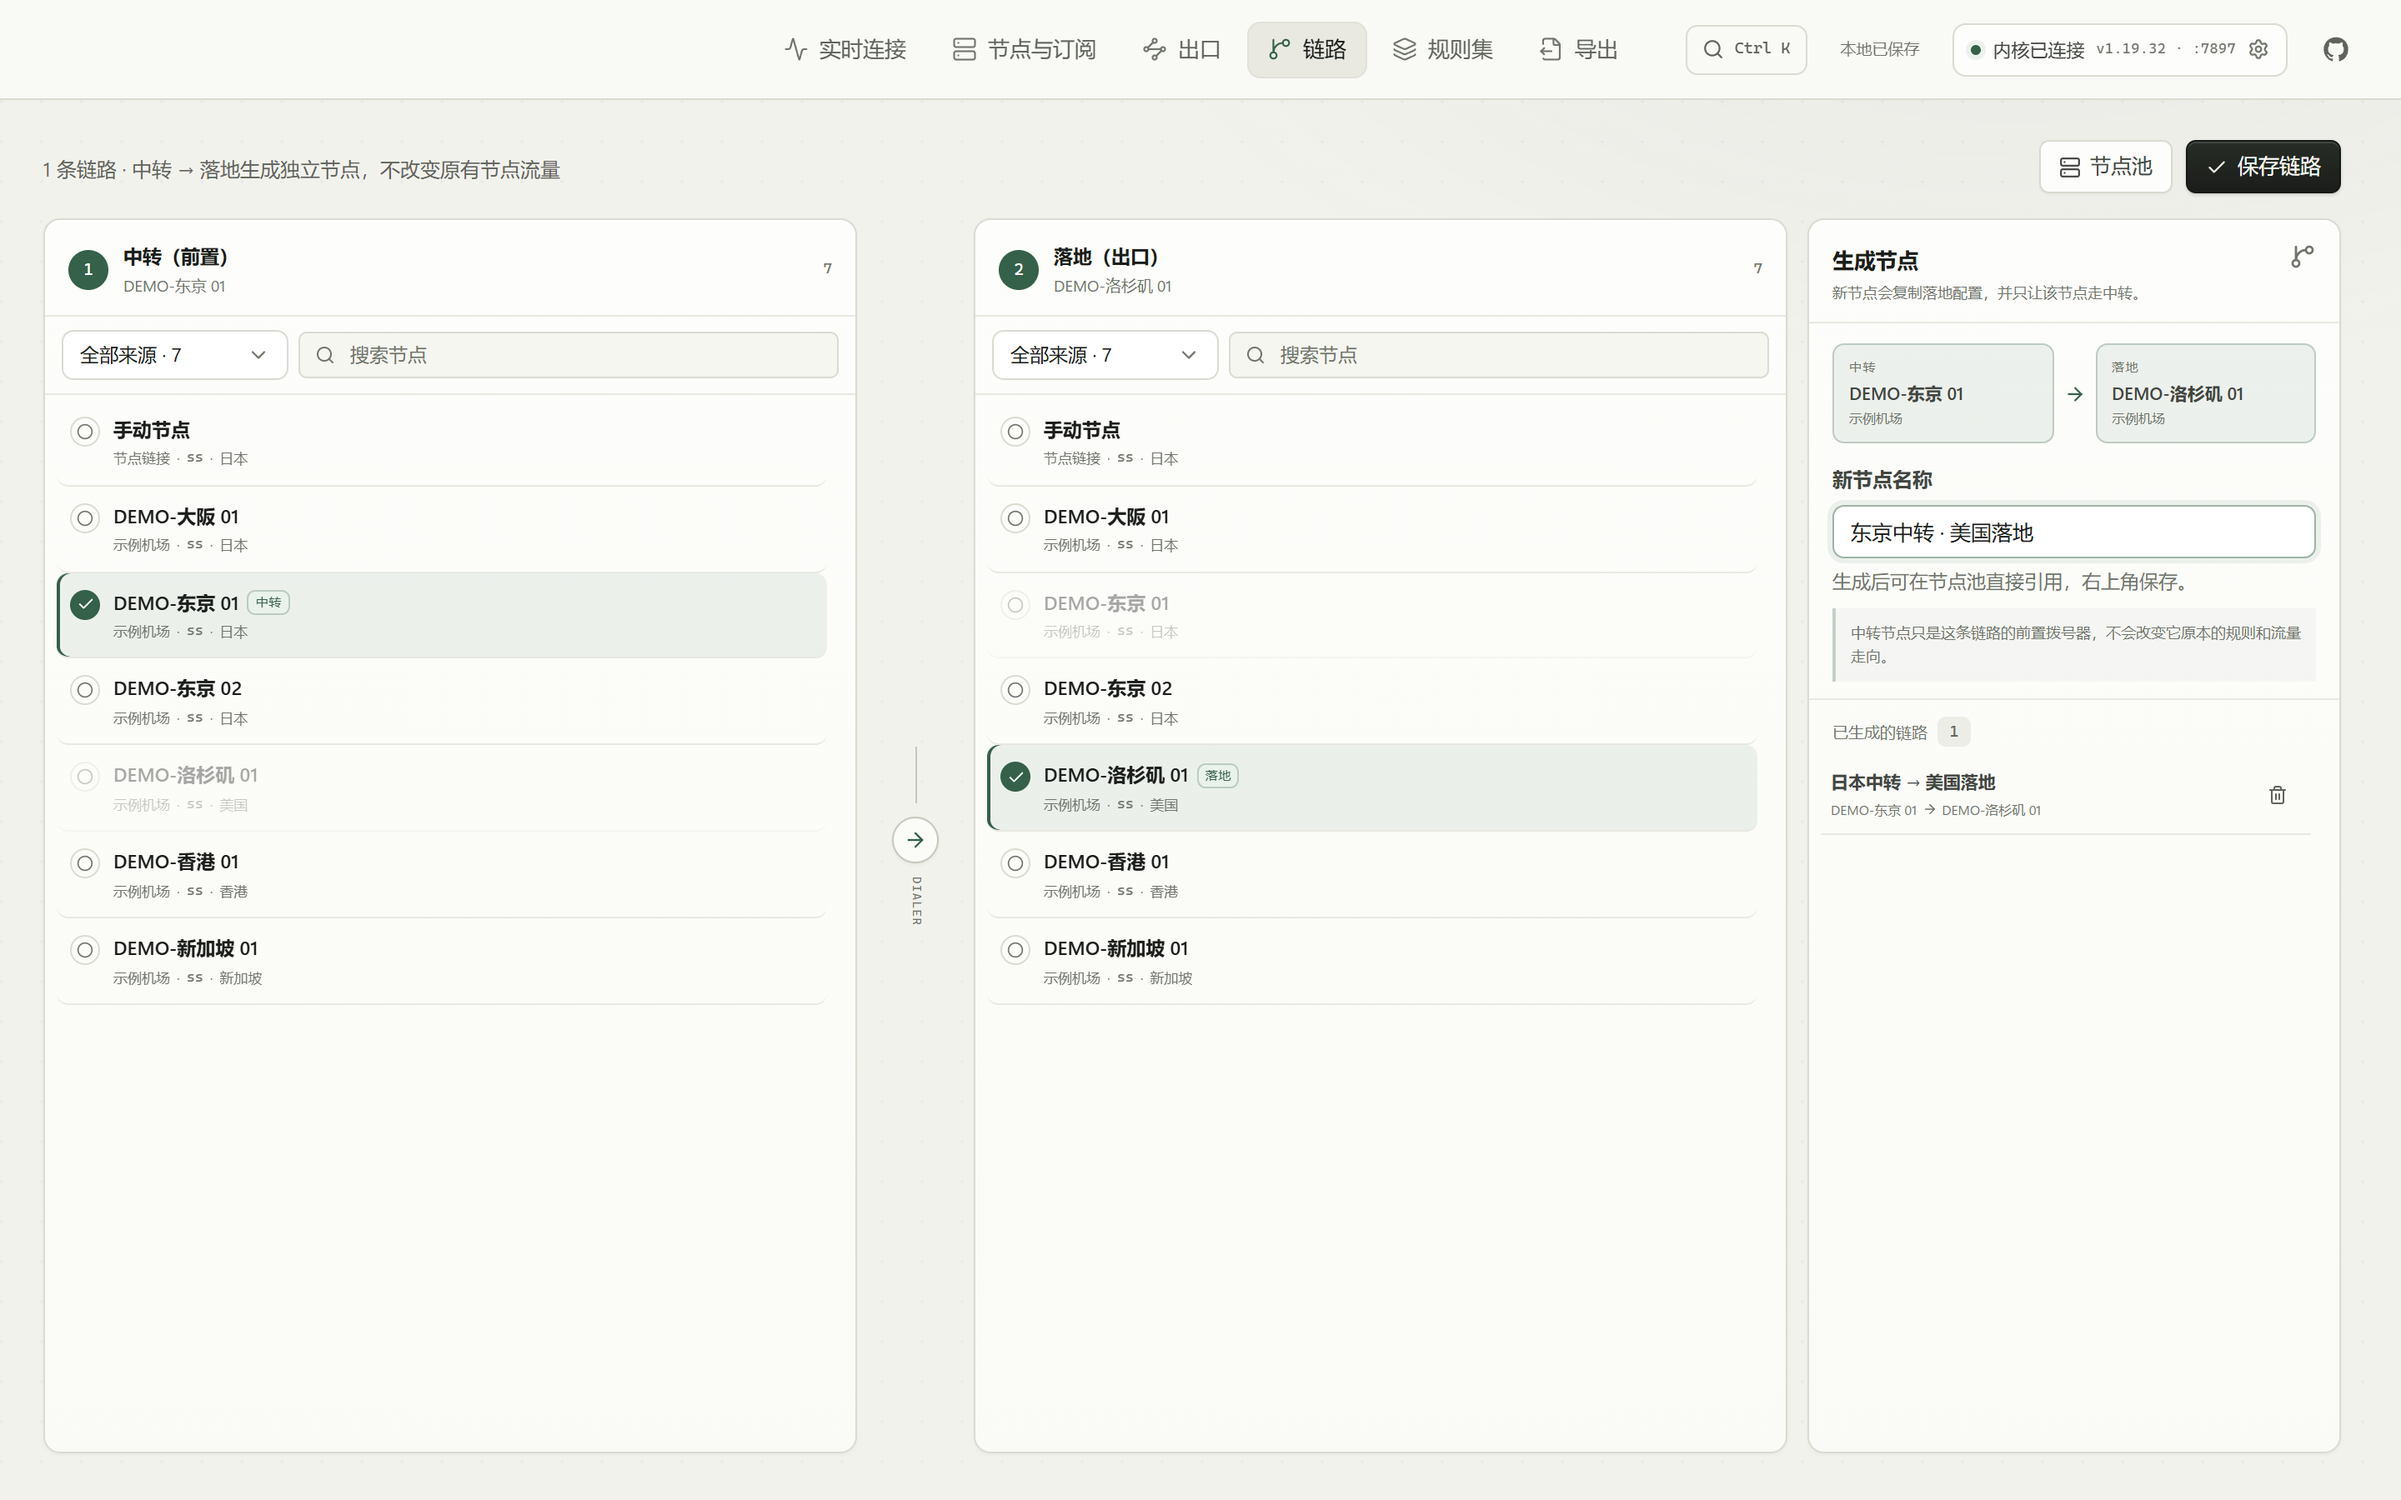
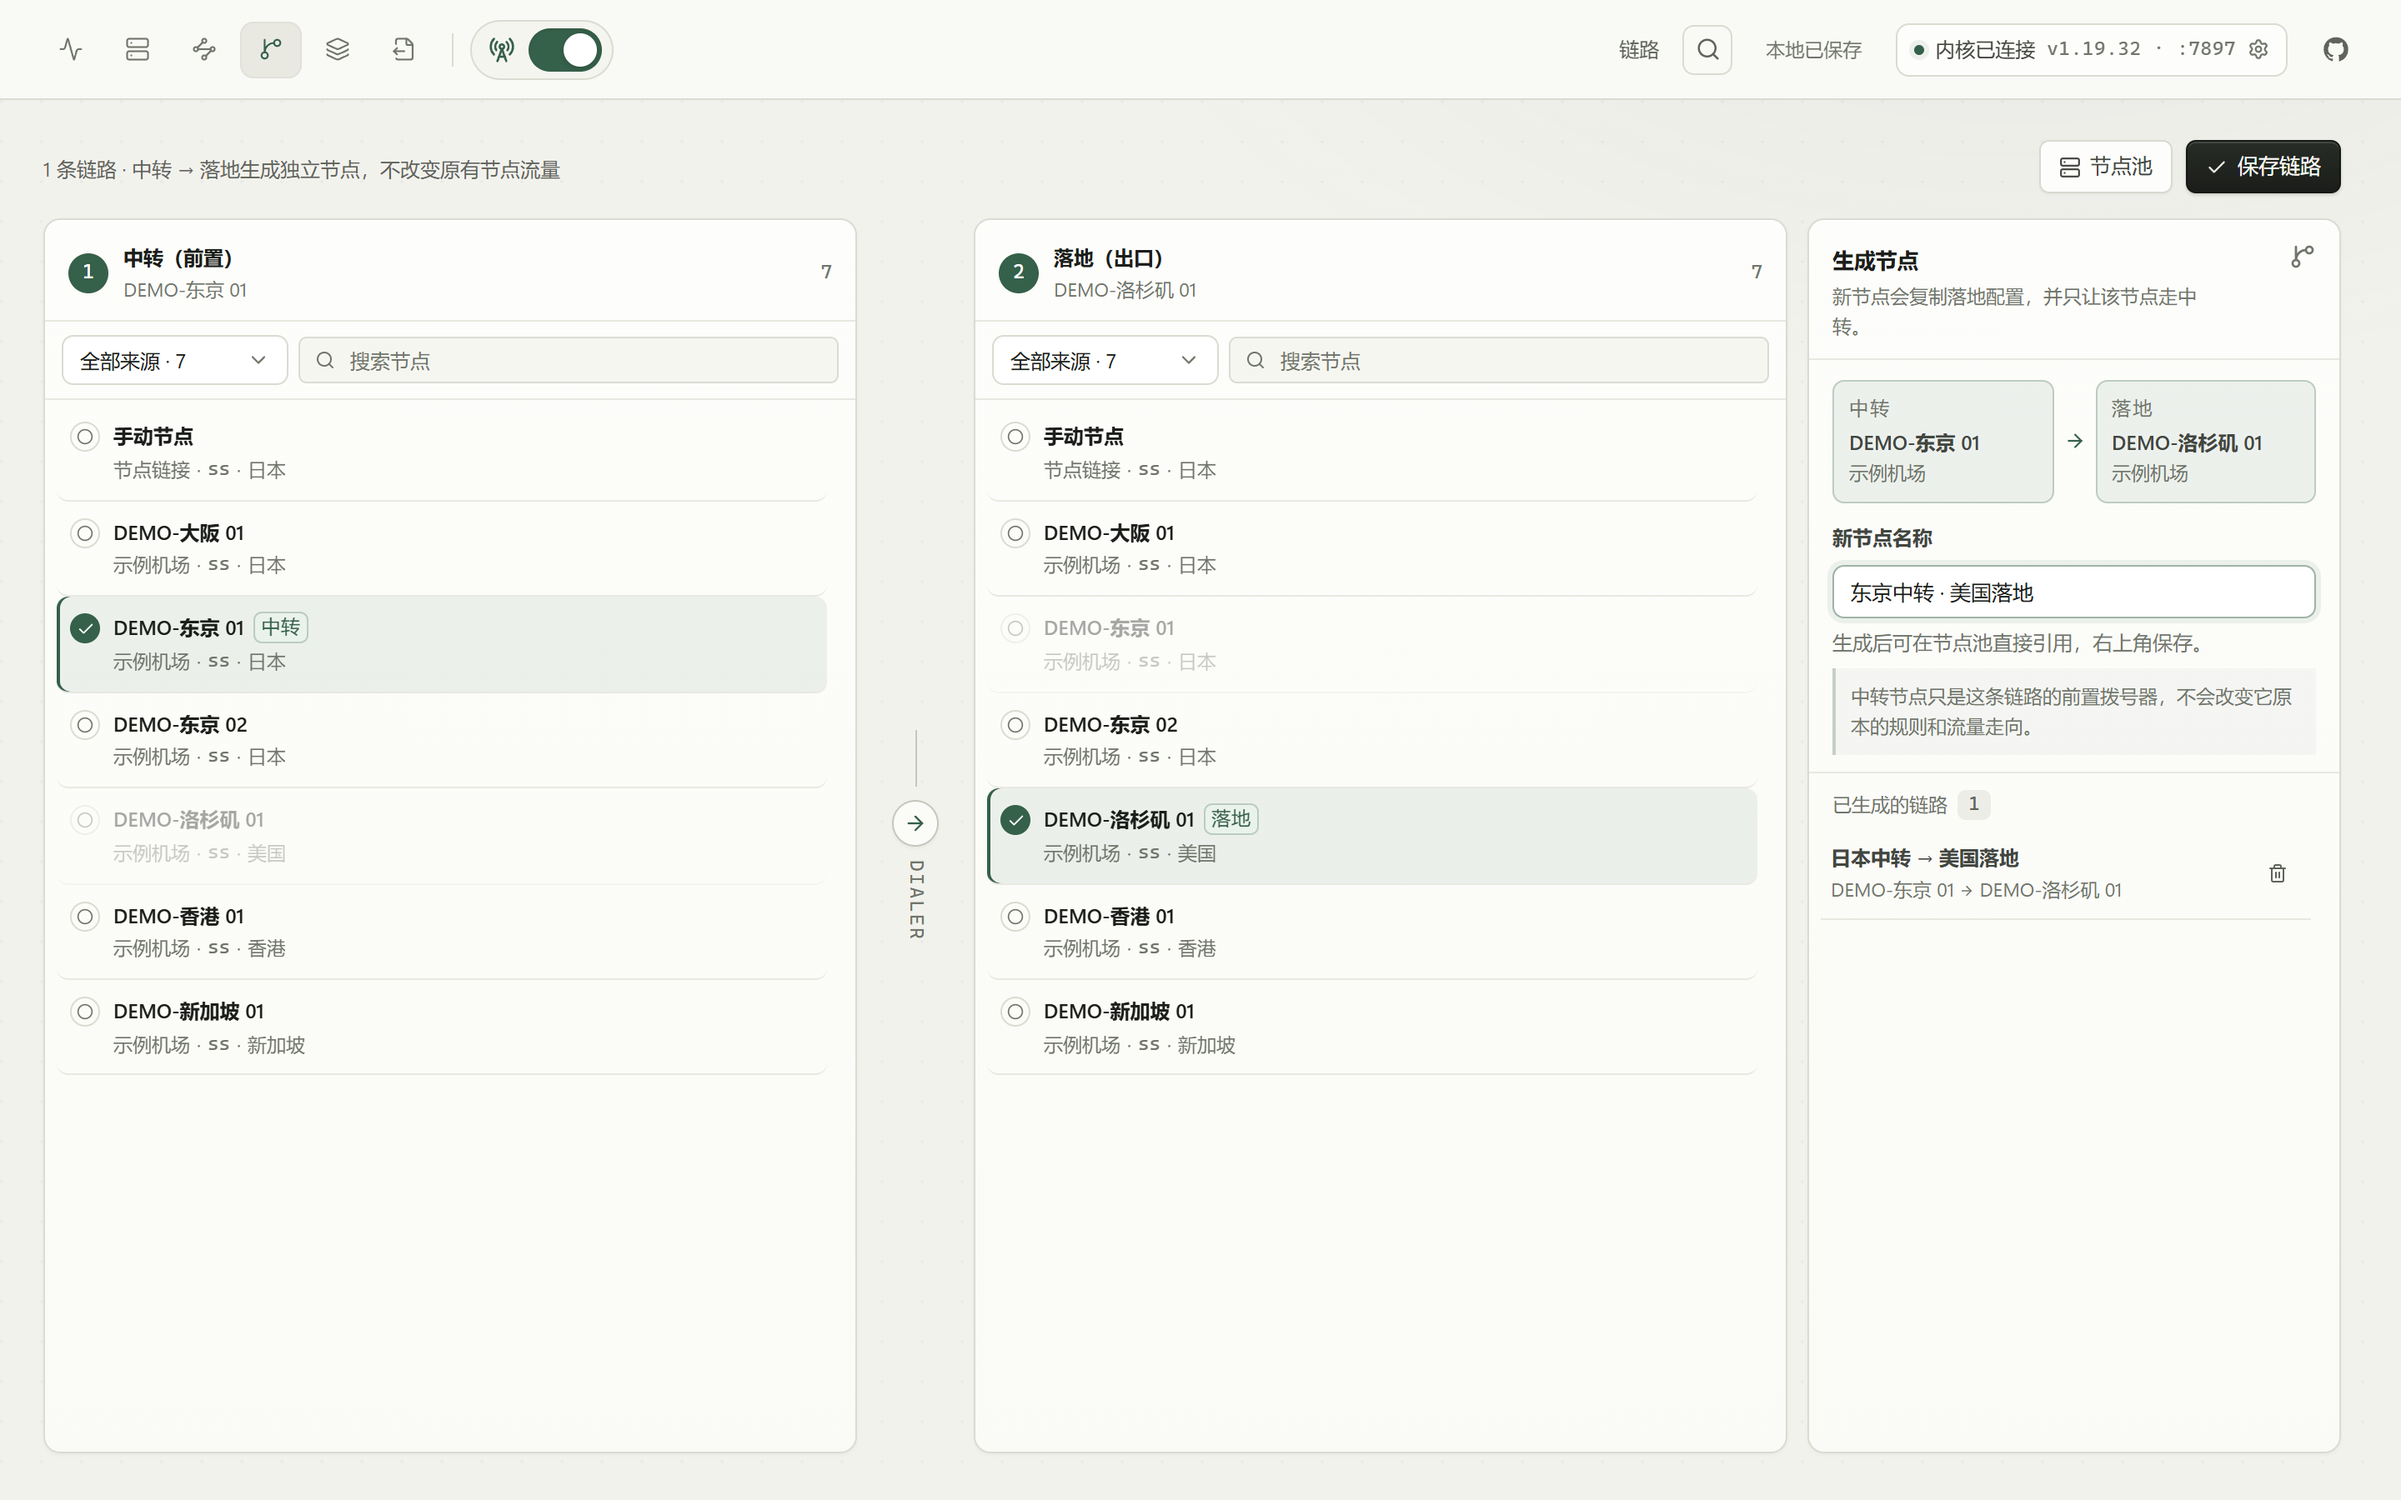
feat: freeze live order and batch large rule lists
Keep the live connection order stable while a detail row is expanded,
give the offline empty state only re-detect and subscription import
actions, and render large rule lists in 250-row batches. Refresh the
README screenshots for the current navigation and type scale.

diff --git a/src/pages/LivePage.tsx b/src/pages/LivePage.tsx
@@ -536,6 +536,8 @@ export function LivePage() {
   const [selected, setSelected] = useState<Set<string>>(new Set());
   const [lastSelectedKey, setLastSelectedKey] = useState<string | null>(null);
   const [expandedKey, setExpandedKey] = useState<string | null>(null);
+  // 展开详情时冻结列表顺序，避免实时排序把详情行和邻行挤乱。
+  const frozenOrderRef = useRef<string[] | null>(null);
   const [activeKeys, setActiveKeys] = useState<string[]>([]);
   const [composer, setComposer] = useState<ComposerState | null>(null);
   const [showPreview, setShowPreview] = useState(false);
@@ -594,8 +596,16 @@ export function LivePage() {
         return b.lastSeen - a.lastSeen;
       });
     }
+    if (expandedKey && frozenOrderRef.current) {
+      const rank = new Map(frozenOrderRef.current.map((key, index) => [key, index]));
+      items.sort(
+        (a, b) =>
+          (rank.get(a.key) ?? Number.MAX_SAFE_INTEGER) -
+          (rank.get(b.key) ?? Number.MAX_SAFE_INTEGER),
+      );
+    }
     return items;
-  }, [entries, workspace, query, exitFilter, ruleFilter, sortMode]);
+  }, [entries, workspace, query, exitFilter, ruleFilter, sortMode, expandedKey]);
 
   const listRef = useRef<HTMLDivElement | null>(null);
   const virtualizer = useVirtualizer({
@@ -612,6 +622,8 @@ export function LivePage() {
 
   useEffect(() => {
     listRef.current?.scrollTo({ top: 0 });
+    frozenOrderRef.current = null;
+    setExpandedKey(null);
   }, [query, exitFilter, ruleFilter, sortMode]);
 
   useEffect(() => {
@@ -670,8 +682,21 @@ export function LivePage() {
       const next = new Set([...current].filter((key) => existing.has(key)));
       return next.size === current.size ? current : next;
     });
-    if (expandedKey && !existing.has(expandedKey)) setExpandedKey(null);
-  }, [entries]);
+    if (expandedKey && !existing.has(expandedKey)) {
+      frozenOrderRef.current = null;
+      setExpandedKey(null);
+    }
+  }, [entries, expandedKey]);
+
+  const toggleExpanded = (key: string) => {
+    if (expandedKey === key) {
+      frozenOrderRef.current = null;
+      setExpandedKey(null);
+      return;
+    }
+    frozenOrderRef.current = filtered.map((entry) => entry.key);
+    setExpandedKey(key);
+  };
 
   useEffect(() => {
     const visible = new Set(filtered.map((entry) => entry.key));
@@ -1081,13 +1106,13 @@ export function LivePage() {
                 ) : filtered.length === 0 ? (
                   <EmptyState
                     icon={connected ? <Radar size={20} /> : <WifiOff size={20} />}
-                    title={connected ? '还没有可显示的连接' : '内核未连接'}
+                    title={connected ? '还没有可显示的连接' : 'Clash Verge 未连接'}
                     description={
                       connected
                         ? entries.length
                           ? '当前筛选条件下没有连接，试试清除搜索或筛选。'
                           : '访问任意网站，或在上方搜索框输入域名并点击「探测」，连接会实时出现在这里。'
-                        : '实时流已暂停。打开设置检查控制器地址与密钥；编辑规则不需要内核在线。'
+                        : '启动 Clash Verge 后重新探测；也可以先导入订阅，编辑工作区不需要内核在线。'
                     }
                     actions={
                       connected ? (
@@ -1100,11 +1125,11 @@ export function LivePage() {
                         </button>
                       ) : (
                         <>
-                          <button className="btn btn-primary btn-sm" onClick={() => setSettingsOpen(true)}>
-                            打开设置
+                          <button className="btn btn-primary btn-sm" onClick={rediscover} disabled={rediscovering}>
+                            <RefreshCw size={12} /> 启动 Verge 后重新探测
                           </button>
-                          <button className="btn btn-outline btn-sm" onClick={rediscover} disabled={rediscovering}>
-                            <RefreshCw size={12} /> 重新探测
+                          <button className="btn btn-outline btn-sm" onClick={() => navigate('/nodes?add=1')}>
+                            <Plus size={12} /> 导入订阅
                           </button>
                         </>
                       )
@@ -1131,7 +1156,7 @@ export function LivePage() {
                             status={statusForEntry(entry, workspace)}
                             selectedKeys={selected}
                             onToggleSelect={toggleSelect}
-                            onToggleExpand={(key) => setExpandedKey((current) => (current === key ? null : key))}
+                            onToggleExpand={toggleExpanded}
                             onContext={(event, item) => {
                               event.preventDefault();
                               setContext({

diff --git a/src/pages/RulesPage.tsx b/src/pages/RulesPage.tsx
@@ -1,4 +1,4 @@
-import { lazy, Suspense, useEffect, useMemo, useState } from 'react';
+import { lazy, memo, Suspense, useEffect, useMemo, useState, useTransition } from 'react';
 import { useNavigate, useSearchParams } from 'react-router-dom';
 import {
   DndContext,
@@ -131,7 +131,7 @@ interface RuleRowProps {
   onToggle: (enabled: boolean) => void;
 }
 
-function RuleRow({
+const RuleRow = memo(function RuleRow({
   route,
   index,
   display,
@@ -343,7 +343,23 @@ function RuleRow({
       </div>
     </div>
   );
-}
+}, (prev, next) =>
+  // 回调只捕获 route id 与稳定的 store 操作，数据变化时再重渲染。
+  prev.route === next.route &&
+  prev.index === next.index &&
+  prev.display === next.display &&
+  prev.exits === next.exits &&
+  prev.nodes === next.nodes &&
+  prev.sources === next.sources &&
+  prev.dragDisabled === next.dragDisabled &&
+  prev.providerHits === next.providerHits &&
+  prev.recentHit === next.recentHit &&
+  prev.selectMode === next.selectMode &&
+  prev.checked === next.checked &&
+  prev.refreshing === next.refreshing &&
+  prev.issue?.cover === next.issue?.cover &&
+  prev.issue?.duplicate === next.issue?.duplicate
+);
 
 export function RulesPage() {
   const workspace = useWorkspace((state) => state.workspace);
@@ -368,6 +384,9 @@ export function RulesPage() {
   const [selectedIds, setSelectedIds] = useState<Set<string>>(new Set());
   const [groupBySource, setGroupBySource] = useState(false);
   const [collapsedGroups, setCollapsedGroups] = useState<Set<string>>(new Set());
+  // 大目录分批挂载可排序行，避免一次渲染上千条。
+  const [visibleLimit, setVisibleLimit] = useState(250);
+  const [isPending, startTransition] = useTransition();
   const [catalogDisplay, setCatalogDisplay] = useState<((route: RuleSetRoute) => RouteDisplayInfo) | null>(null);
   const sensors = useSensors(useSensor(PointerSensor, { activationConstraint: { distance: 6 } }));
 
@@ -377,6 +396,10 @@ export function RulesPage() {
     const route = useWorkspace.getState().workspace?.routes.find((item) => item.id === editId);
     if (route && route.kind === 'rule' && route.type !== 'MATCH') setEditing({ mode: 'edit', id: editId });
   }, [params]);
+
+  useEffect(() => {
+    setVisibleLimit(250);
+  }, [filter, query, onlyInvalid, onlyZeroHit]);
 
   useEffect(() => {
     const q = params.get('q');
@@ -484,6 +507,7 @@ export function RulesPage() {
       route.source.value.toLowerCase().includes(q)
     );
   });
+  const visibleRoutes = groupBySource ? filtered : filtered.slice(0, visibleLimit);
   const issuesCount = issues.size;
   const zeroHitCount = snapshot
     ? sortableRoutes.filter((route) => route.enabled && ruleHitCount(route) === 0).length
@@ -881,7 +905,7 @@ export function RulesPage() {
           <EmptyState icon={<Search size={20} />} title="没有匹配的规则" description="试试其他关键词或筛选条件。" />
         ) : (
           <DndContext sensors={sensors} collisionDetection={closestCenter} onDragEnd={onDragEnd}>
-            <SortableContext items={filtered.map((route) => route.id)} strategy={verticalListSortingStrategy}>
+            <SortableContext items={visibleRoutes.map((route) => route.id)} strategy={verticalListSortingStrategy}>
               {groupBySource ? (
                 <div className="rule-groups">
                   {ruleGroups.map((group) => {
@@ -910,7 +934,7 @@ export function RulesPage() {
                   })}
                 </div>
               ) : (
-                filtered.map(renderRuleRow)
+                visibleRoutes.map(renderRuleRow)
               )}
             </SortableContext>
           </DndContext>
@@ -951,6 +975,15 @@ export function RulesPage() {
         <div className="rule-list-foot">
           <span>拖动排序 · 自动保存</span>
           <span className="spacer" />
+          {!groupBySource && filtered.length > visibleRoutes.length ? (
+            <button
+              className="inline-link"
+              disabled={isPending}
+              onClick={() => startTransition(() => setVisibleLimit((limit) => limit + 250))}
+            >
+              {isPending ? '加载中…' : `显示更多（${visibleRoutes.length} / ${filtered.length}）`}
+            </button>
+          ) : null}
           <button className="inline-link" onClick={() => navigate('/export')}>去导出预览</button>
         </div>
       </div>

diff --git a/CHANGELOG.md b/CHANGELOG.md
@@ -27,7 +27,13 @@
 - Live stream pause/resume uses a dedicated switch control instead of a small
   square button.
 - Expanded live connection rows are measured by connection key, so live
-  reordering no longer makes the detail panel overlap the following rows.
+  reordering no longer makes the detail panel overlap the following rows; the
+  list order is frozen until the detail is collapsed.
+- The offline empty state now offers only two actions: re-detect after starting
+  Verge, and import a subscription directly.
+- Large rule lists render in batches of 250 with “显示更多”, keeping the first
+  screen responsive for 1000+ rule workspaces.
+- README and demo screenshots were regenerated for the current UI.
 - Notifications are centered above the app (including dialogs), have no close
   or undo controls, and dismiss automatically after a few seconds.
 - The GitHub button now opens the repository in the system browser on desktop.
